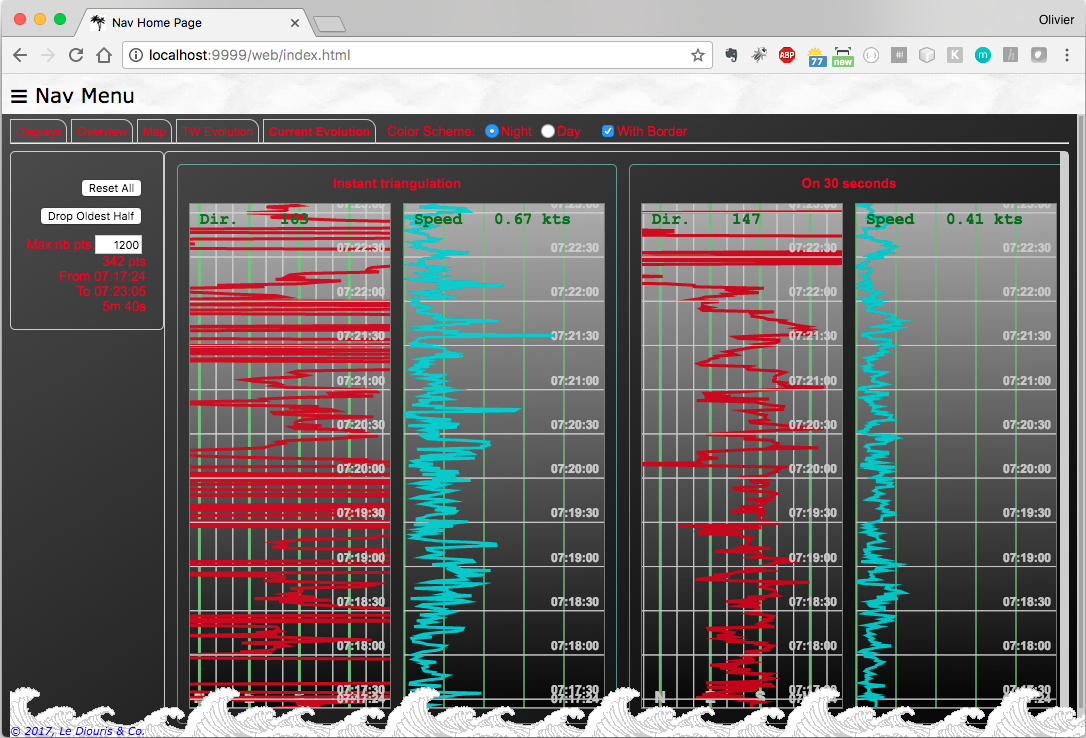
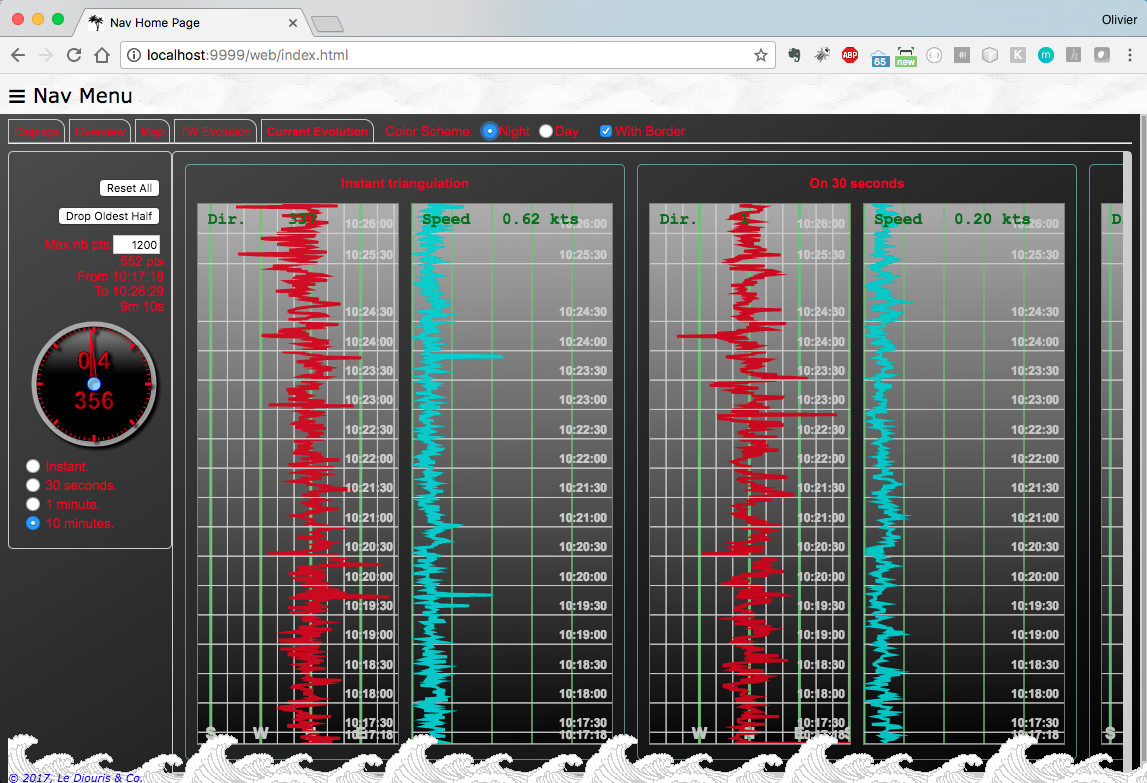
Fixed small bug in direction evolution

diff --git a/RESTNavServer/web/nmea/console.html b/RESTNavServer/web/nmea/console.html
@@ -284,6 +284,10 @@
       displayCurrent.setValue(val);
 	    currentDirEvolution.addDirection({ "angle": val,
 		    													       "time": (new Date()).getTime() });
+	    var evolutionFlavor = getRadioButtonValue("buffer-size-rb");
+	    if (evolutionFlavor === 'inst') {
+		    displayCurrent2.setValue(val);
+	    }
     });
 	  events.subscribe('csp', function(val) {
 		  var csp = val.toFixed(2);
@@ -302,31 +306,59 @@
 				  // "(" + twsEvolution.getLifeSpan() + ")" + "<br>" +
 				  currentSpeedEvolution.getLifeSpanFormatted();
 				  currentSpeedEvolution.getLifeSpanFormatted();
+			var evolutionFlavor = getRadioButtonValue("buffer-size-rb");
+			if (evolutionFlavor === 'inst') {
+				displayCurrent2.setCurrentSpeed(val);
+			}
 	  });
 
 	  events.subscribe("csp-30000", function(val) {
 		  currentSpeedEvolution30s.addSpeed({ "speed": val,
 			  																	"time": (new Date()).getTime() });
+		  var evolutionFlavor = getRadioButtonValue("buffer-size-rb");
+		  if (evolutionFlavor === '30s') {
+			  displayCurrent2.setCurrentSpeed(val);
+		  }
 		});
 	  events.subscribe("cdr-30000", function(val) {
 		  currentDirEvolution30s.addDirection({ "angle": val,
 			  																		"time": (new Date()).getTime() });
+		  var evolutionFlavor = getRadioButtonValue("buffer-size-rb");
+		  if (evolutionFlavor === '30s') {
+			  displayCurrent2.setValue(val);
+		  }
 	  });
 	  events.subscribe("csp-60000", function(val) {
 		  currentSpeedEvolution1m.addSpeed({ "speed": val,
 			  																 "time": (new Date()).getTime() });
+		  var evolutionFlavor = getRadioButtonValue("buffer-size-rb");
+		  if (evolutionFlavor === '1m') {
+			  displayCurrent2.setCurrentSpeed(val);
+		  }
 	  });
 	  events.subscribe("cdr-60000", function(val) {
 		  currentDirEvolution1m.addDirection({ "angle": val,
 				 																	 "time": (new Date()).getTime() });
+		  var evolutionFlavor = getRadioButtonValue("buffer-size-rb");
+		  if (evolutionFlavor === '1m') {
+			  displayCurrent2.setValue(val);
+		  }
 	  });
 	  events.subscribe("csp-600000", function(val) {
 		  currentSpeedEvolution10m.addSpeed({ "speed": val,
 																					"time": (new Date()).getTime() });
+		  var evolutionFlavor = getRadioButtonValue("buffer-size-rb");
+		  if (evolutionFlavor === '10m') {
+			  displayCurrent2.setCurrentSpeed(val);
+		  }
 	  });
 	  events.subscribe("cdr-600000", function(val) {
 		  currentDirEvolution10m.addDirection({ "angle": val,
 			  																		"time": (new Date()).getTime() });
+		  var evolutionFlavor = getRadioButtonValue("buffer-size-rb");
+		  if (evolutionFlavor === '10m') {
+			  displayCurrent2.setValue(val);
+		  }
 	  });
 
     events.subscribe('cog', function(val) {
@@ -369,6 +401,20 @@
       jumboVMG.setValue(vmg);
     });
   };
+
+  var getRadioButtonValue = function(rbName) {
+  	var elmts = document.getElementsByName(rbName);
+  	var value;
+  	if (elmts !== undefined && elmts !== null) {
+		  for (var idx = 0; idx < elmts.length; idx++) {
+				if (elmts[idx].checked) {
+					value = elmts[idx].value;
+					break;
+				}
+		  }
+	  }
+		return value;
+	};
   
   var displayErr = function(err) {
     if (err !== undefined) {
@@ -772,7 +818,7 @@
       </p>
     </div>
 		<div id="current-evolution" style="display: none;">
-			<div style="padding: 1px; border-radius: 5px; border: 1px solid #CCC; max-height: 80%; width: 150px; float: left;">
+			<div style="padding: 1px; border-radius: 5px; border: 1px solid #CCC; max-height: 80%; width: 160px; float: left;">
 			  <table>
 					<tr>
 						<td valign="top">
@@ -790,6 +836,17 @@
 											Max&nbsp;nb&nbsp;pts:<input type="text" style="text-align: right;" size="6" placeholder="Nb" value="1200" onchange="updateCurrentBufferLength(this);"/>
 											<br>
 											<div id="life-span-current">
+											</div>
+											<div style="text-align: left;">
+												<canvas id="currentDisplayCanvas2" height="140" width="140" title="Current, speed and direction"><!-- class="displayCanvas" --></canvas>
+												<br/>
+												<input type="radio" name="buffer-size-rb" onchange="" value="inst" checked /> Instant.
+												<br/>
+												<input type="radio" name="buffer-size-rb" onchange="" value="30s" /> 30 seconds.
+												<br/>
+												<input type="radio" name="buffer-size-rb" onchange="" value="1m" /> 1 minute.
+												<br/>
+												<input type="radio" name="buffer-size-rb" onchange="" value="10m" /> 10 minutes.
 											</div>
 										</td>
 									</tr>

diff --git a/RESTNavServer/web/js/console.js b/RESTNavServer/web/js/console.js
@@ -7,7 +7,7 @@ var displayBSP, displayLog, displayTWD, displayTWS, thermometer, athermometer, d
 		displayBaro, displayHum, displayDate, displayTime, displayOverview, displayOverview,
 		jumboBSP, jumboHDG, jumboTWD, jumboLWY, jumboAWA, jumboTWA, jumboAWS, jumboTWS, jumboCOG, jumboCDR, jumboSOG,
 		jumboCSP, jumboVMG,
-		displayAW, displayCurrent,
+		displayAW, displayCurrent, displayCurrent2,
 		twdEvolution, twsEvolution,
 
 		worldMap,
@@ -67,7 +67,9 @@ var init = function () {
 
 	displayAW = new AWDisplay('awDisplayCanvas', 80, 45, 5);
 	displayAW.setLabel("AW");
-	displayCurrent = new CurrentDisplay('currentDisplayCanvas', 80, 45, 5);
+	displayCurrent  = new CurrentDisplay('currentDisplayCanvas',  80, 45, 5);
+	displayCurrent2 = new CurrentDisplay('currentDisplayCanvas2', 60, 45, 5);
+
 	twdEvolution = new DirectionEvolution('twdEvolutionCanvas', "TWD");
 	twsEvolution = new SpeedEvolution('twsEvolutionCanvas', 60, true, "TWS");
 

diff --git a/RESTNavServer/web/widgets/DirectionEvolution.js b/RESTNavServer/web/widgets/DirectionEvolution.js
@@ -201,7 +201,8 @@ function DirectionEvolution(cName, label)     // Canvas name
 		for (var i = 0; i < directionBuffer.length; i++) {
 			var dir = directionBuffer[i].angle;
 			if (prevDir !== undefined) {
-				if (Math.abs(prevDir - dir) > 180) {
+//			if (Math.abs(prevDir - dir) > 180) {
+				if (Math.abs(lastDirection.angle - dir) > 180) {
 					if (dir > 180) {
 						dir -= 360;
 					} else {

diff --git a/RESTNavServer/web/widgets/worldmap.js b/RESTNavServer/web/widgets/worldmap.js
@@ -598,7 +598,6 @@ function WorldMap (cName, prj) {
 					context.closePath();
 					var img = document.getElementById("moon-png");
 					context.drawImage(img, moon.x + deltaX, moon.y + deltaY);
-					context.drawImage(img, userPos.x, userPos.y);
 				}
 				// Moonlight
 				if (withMoonlight) {
